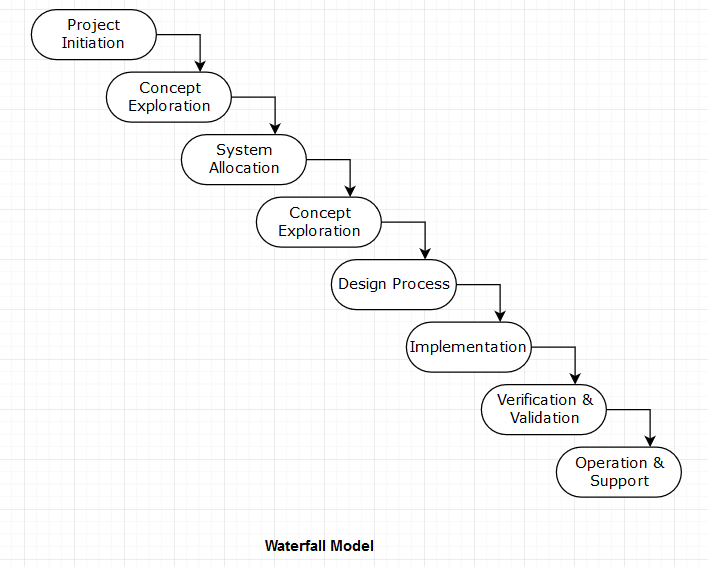
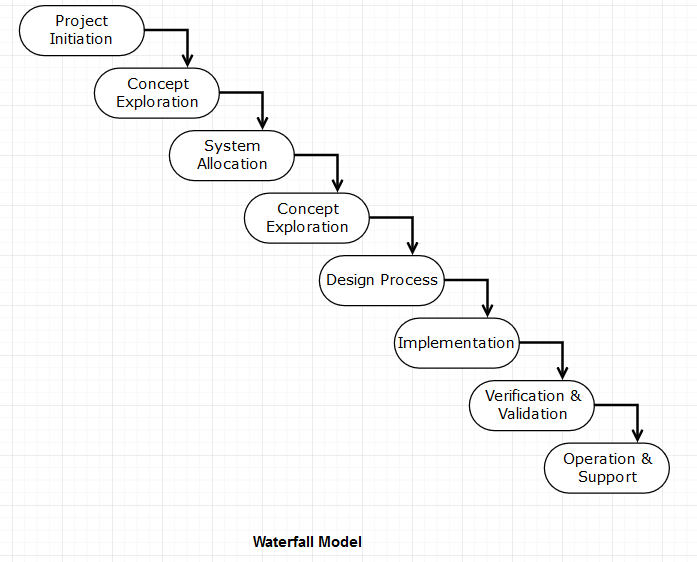
added to V-Model, added UML diagram for V-Model, fixed waterfall UML diagram

Changed region(s): [[0.0301, 0.0, 0.9641, 0.8772], [0.3615, 0.9377, 0.5423, 0.9982]]

diff --git a/notes.md b/notes.md
@@ -349,7 +349,7 @@
     - Entity-Focused Processes
         - focus is on the **products** that are created.
 
-![Waterfall UML Diagram](figs/waterfall-uml-dia.png)
+
 
 ### Agile
 
@@ -357,19 +357,39 @@
 
 ### Waterfall
 
-- Activity Based Development Process
-- Each activity is done in sequential order
-    - Goal: Never repeat an activity once completed.
+- Characteristics
+    - Classic Development Process
+    - Activity Centred
+    - Activities done in sequential order
+
+- Simple Approach
+
+- Goal: Never repeat an activity once completed.
     - Strategy: Constant Verification at each step.
+    - Drawbacks: **//TODO**
 
-- TODO: add diagram.
+#### Waterfall UML Diagram
+![Waterfall UML Diagram](figs/waterfall-uml-dia.png)
 
 
-### V-model
+### V-Model
 
 - Characteristics
+    - Classic Development Process
     - Activity Centred
+    - Activities done in sequential order
+    - Link between design and implementation is explicitly denoted
 
+- More complex variation of the **Waterfall** Process
+
+- Goal: Depict the Abstraction
+    - Higher levels deal with requirements
+    - Middle levels deal with architecture (//TODO explain)
+    - Low levels deal with details of software components
+
+#### V-Model UML Diagram
+- (layout has no meaning in UML, but is shown to demonstrate link between design and implementation)
+![V-Model UML Diagram](figs/v-model-uml-dia.png)
 
 ### Spiral
 
